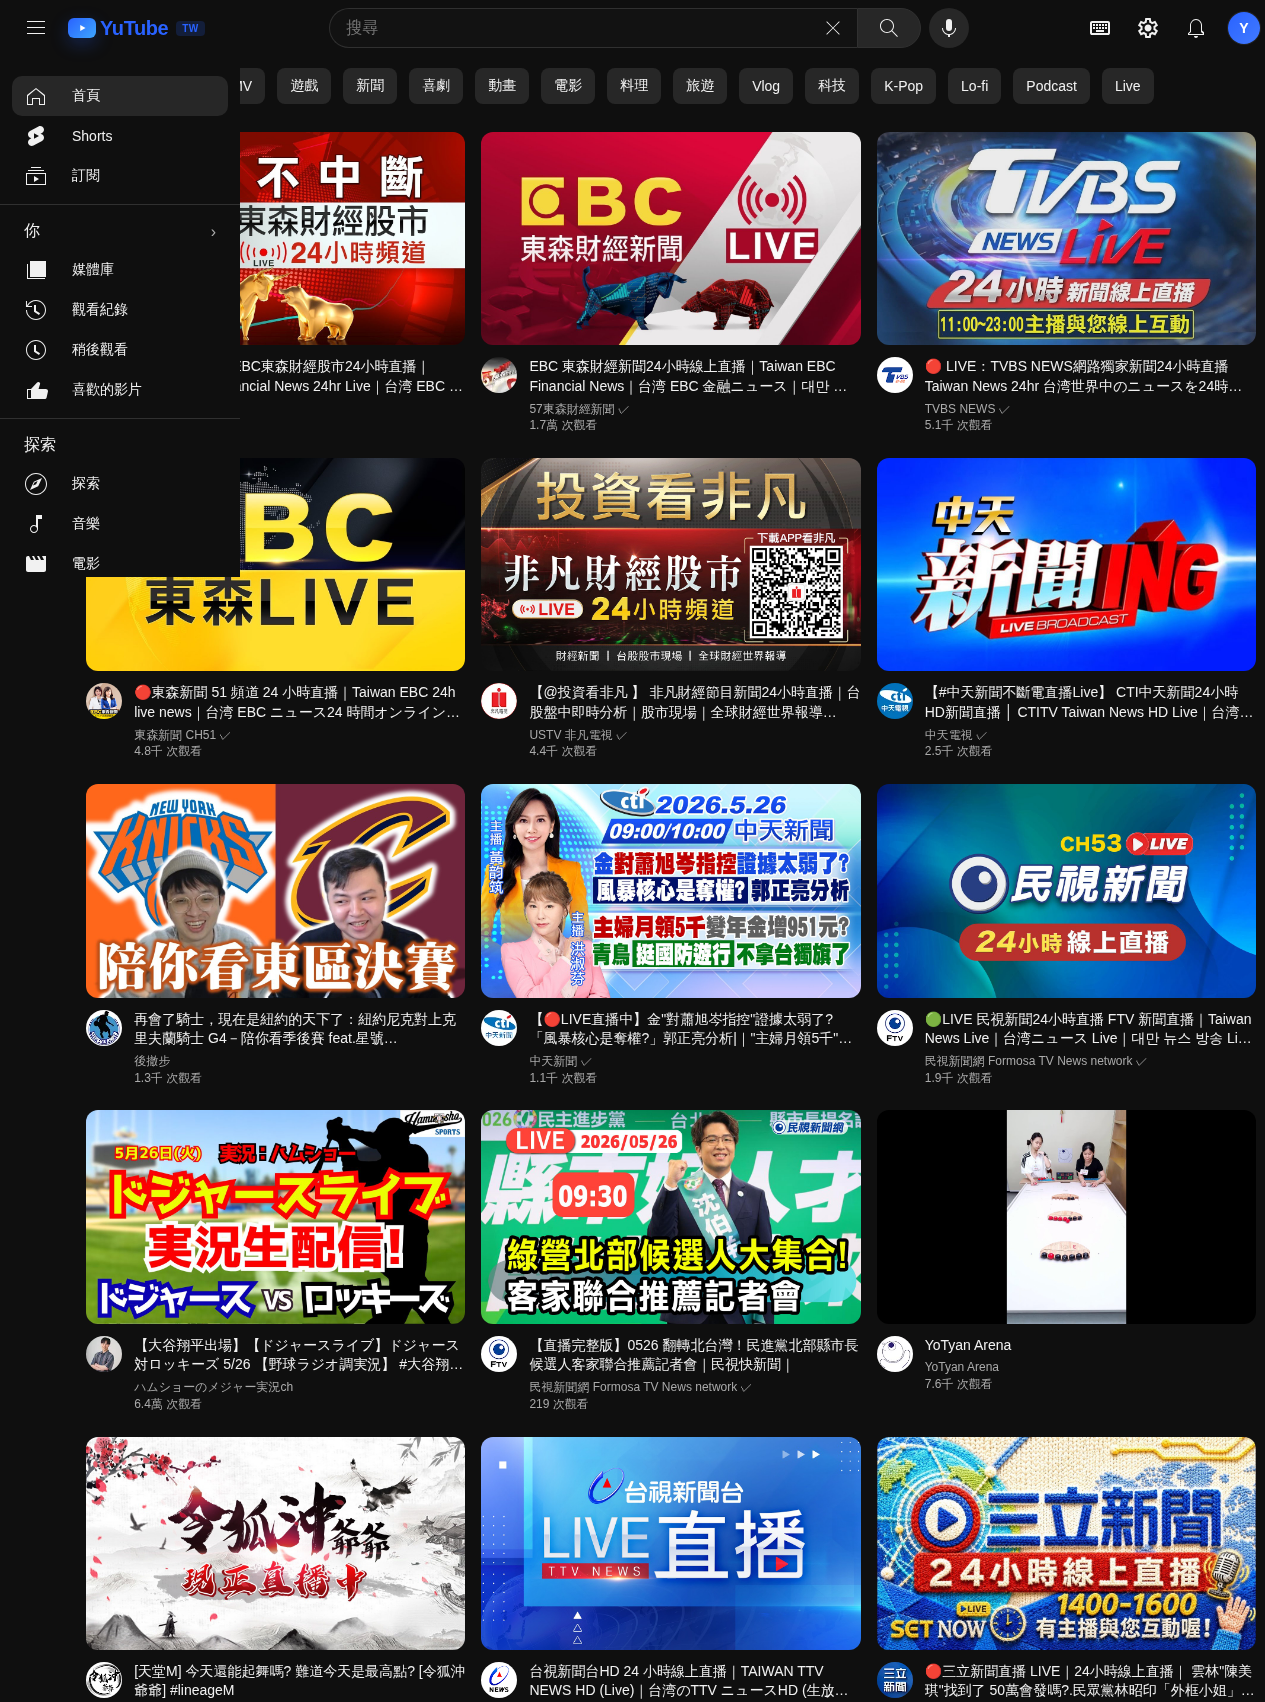
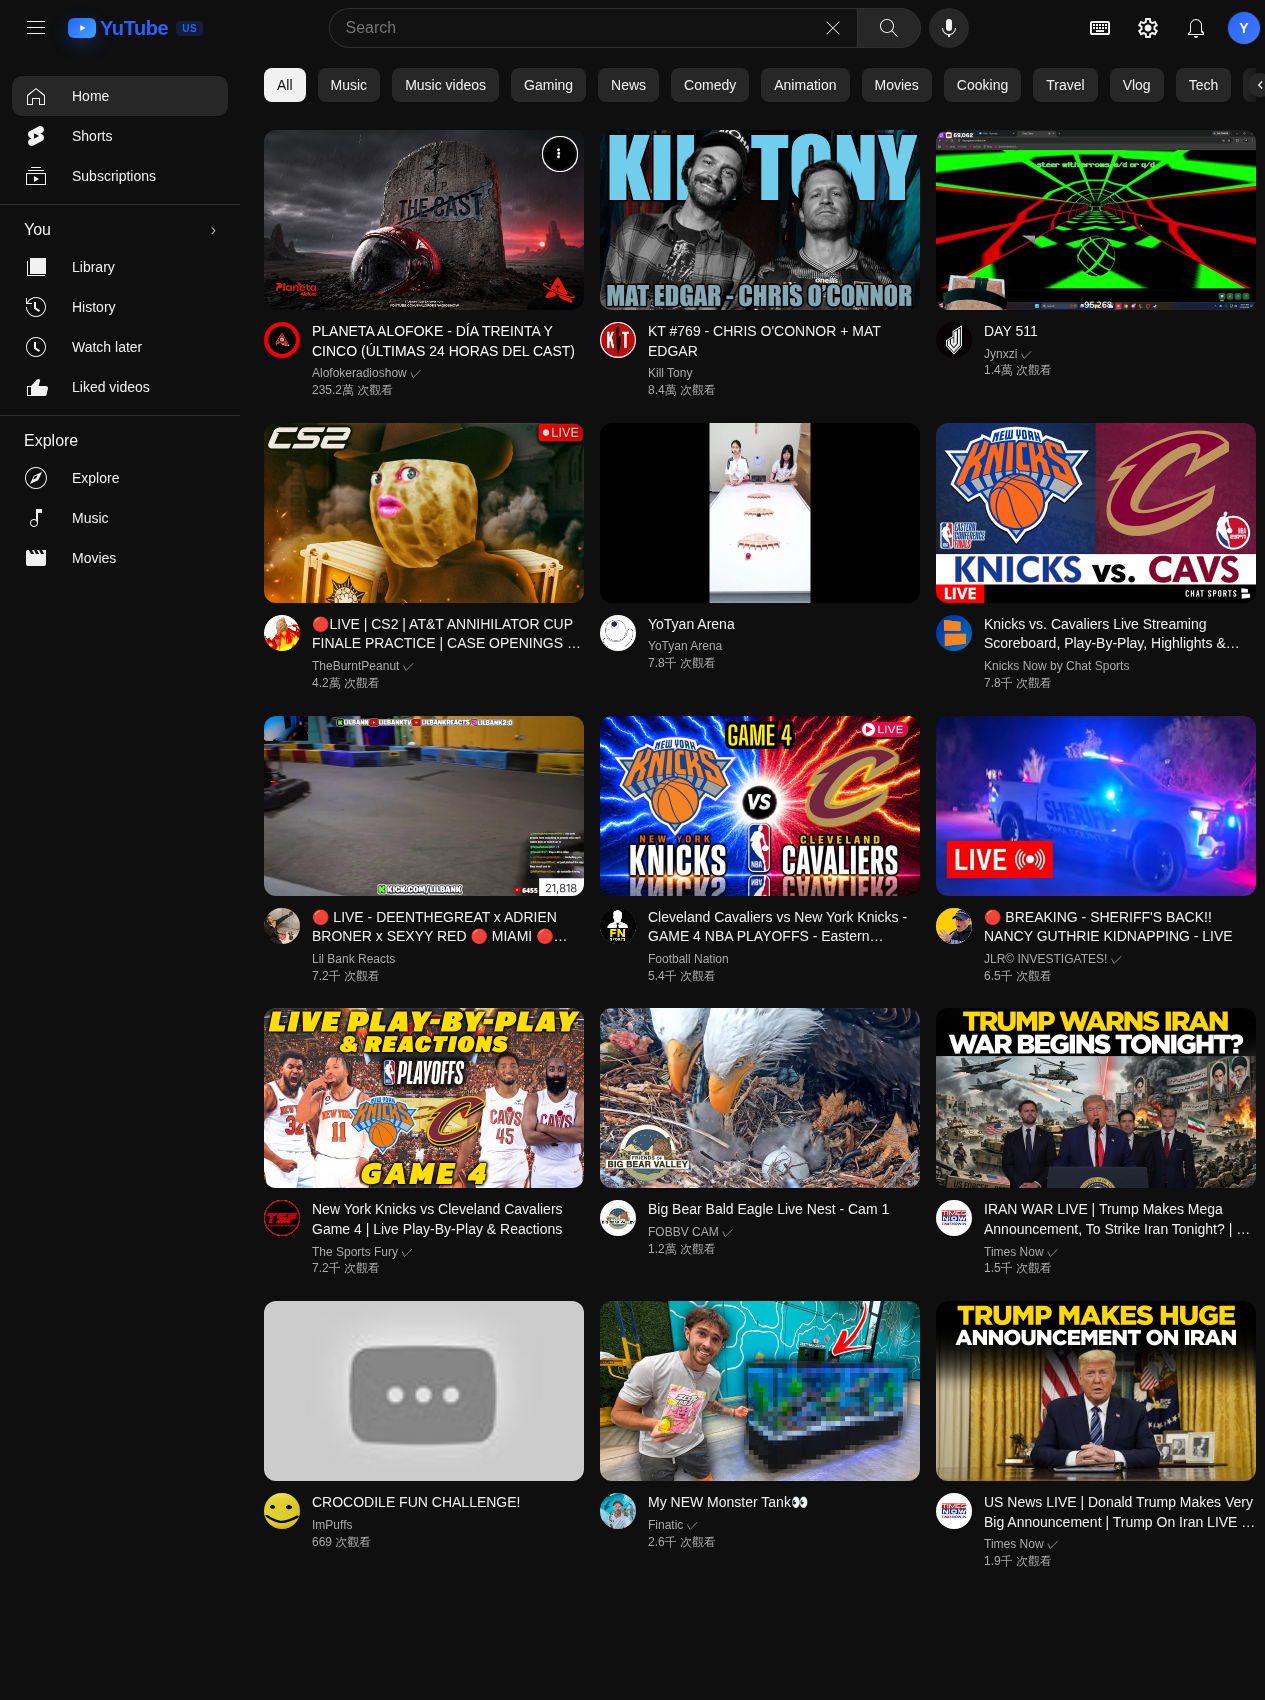
feat: simplify thumbnail action to single 3-dot menu with 'Not interested' only
- Replaced 2-button card-actions (watch-later + share) with single 3-dot ellipsis button
- Context menu now only shows 'Not interested' (hide) option
- Removed old .card-more CSS rules, unified into .card-actions
- Replaced placeholder README screenshots with real US region captures
- Updated README preview text in both EN and zh-TW

diff --git a/public/app.js b/public/app.js
@@ -692,17 +692,11 @@ function videoCard(v) {
         ${durBadge}
         ${progress > 0 ? `<div class="progress-bar" style="width:${Math.min(100, progress)}%"></div>` : ''}
         <div class="card-actions">
-          <button class="card-action" data-act="watch-later" title="${inWatchLater ? '從稍後觀看移除' : '稍後觀看'}">
-            <svg viewBox="0 0 24 24"><path d="${inWatchLater ? 'M19 13H5v-2h14v2z' : 'M11 17h2v-1h1c.55 0 1-.45 1-1v-3c0-.55-.45-1-1-1h-3v-1h4V8h-2V7h-2v1h-1c-.55 0-1 .45-1 1v3c0 .55.45 1 1 1h3v1H9v2h2v1zm9-9h-1V3h-2v5H7V3H5v5H4c-1.1 0-2 .9-2 2v10c0 1.1.9 2 2 2h16c1.1 0 2-.9 2-2V10c0-1.1-.9-2-2-2zm0 12H4V10h16v10z'}"/></svg>
-          </button>
-          <button class="card-action" data-act="share" title="分享">
-            <svg viewBox="0 0 24 24"><path d="M15 5.63L20.66 12 15 18.37V14h-1c-3.96 0-7.14 1-9.75 3.09 1.84-4.07 5.11-6.4 9.7-6.91l1.05-.12V5.63M14 3v7C6.45 10.74 3 16 2 21c2.5-3.5 6-5.1 12-5.1V21l9-9-9-9z"/></svg>
+          <button class="card-action card-action-more" data-act="more" data-channel-id="${channelId || ''}" title="更多" aria-label="更多">
+            <svg viewBox="0 0 24 24" aria-hidden="true"><path d="M12 7a1.75 1.75 0 1 0 0 .001A1.75 1.75 0 0 0 12 7zm0 3.25A1.75 1.75 0 1 0 12 12a1.75 1.75 0 0 0 0-1.75zm0 5a1.75 1.75 0 1 0 0 .001A1.75 1.75 0 0 0 12 15.25z"/></svg>
           </button>
         </div>
       </div>
-      <button class="card-more" data-act="more" data-channel-id="${channelId || ''}" title="更多">
-        <svg viewBox="0 0 24 24"><path d="M12 16.5c.83 0 1.5.67 1.5 1.5s-.67 1.5-1.5 1.5-1.5-.67-1.5-1.5.67-1.5 1.5-1.5zm0-2.5c-.83 0-1.5-.67-1.5-1.5S11.17 11 12 11s1.5.67 1.5 1.5S12.83 14 12 14zm0-3c-.83 0-1.5-.67-1.5-1.5S11.17 8 12 8s1.5.67 1.5 1.5S12.83 11 12 11z"/></svg>
-      </button>
       <div class="meta">
         <div class="avatar" data-act="channel" data-channel-url="${v.uploaderUrl || ''}">${v.uploaderAvatar ? `<img src="${proxyImg(v.uploaderAvatar)}" alt="">` : ''}</div>
         <div class="info">
@@ -734,6 +728,10 @@ function bindCards(root = page) {
           act.title = added ? '從稍後觀看移除' : '稍後觀看';
         } else if (act.dataset.act === 'share') {
           openShare(card.id, card.title);
+        } else if (act.dataset.act === 'hide') {
+          Store.hidden.add(card.id);
+          c.style.display = 'none';
+          toast('已標記為不感興趣');
         } else if (act.dataset.act === 'channel') {
           const chId = act.dataset.channelId || channelIdFromUrl(act.dataset.channelUrl);
           if (chId) navigate(`/channel/${chId}`);
@@ -2039,7 +2037,7 @@ document.addEventListener('click', (e) => {
   if (!menu || menu.hidden) return;
   const item = e.target.closest('.ctx-item');
   if (!item) {
-    if (!e.target.closest('.card-more')) closeCtxMenu();
+    if (!e.target.closest('.card-action-more')) closeCtxMenu();
     return;
   }
   const id = menu.dataset.id;

diff --git a/public/style.css b/public/style.css
@@ -398,26 +398,31 @@ a.link { color: var(--link); }
 
 .card { cursor: pointer; position: relative; }
 .card:hover .title { color: white; }
+/* 卡片右上單一動作按鈕 */
 .card .card-actions {
   position: absolute;
-  top: 8px; right: 8px;
-  display: none;
+  top: 8px;
+  right: 8px;
+  display: flex;
   gap: 4px;
-  z-index: 2;
+  z-index: 3;
+  opacity: 0;
+  transition: opacity .15s;
 }
-.card:hover .card-actions { display: flex; }
+.card:hover .card-actions { opacity: 1; }
 .card-action {
   width: 32px; height: 32px;
-  background: rgba(0,0,0,0.7);
+  background: rgba(0,0,0,0.72);
   border: none;
-  border-radius: 50%;
+  border-radius: 999px;
   color: white;
   cursor: pointer;
   display: inline-flex;
   align-items: center; justify-content: center;
 }
 .card-action:hover { background: rgba(0,0,0,0.9); }
-.card-action svg { width: 16px; height: 16px; fill: currentColor; }
+.card-action svg { width: 18px; height: 18px; fill: currentColor; }
+.card-action-more svg { width: 20px; height: 20px; }
 
 .thumb {
   position: relative;
@@ -1177,26 +1182,6 @@ body.light .my-avatar { background: var(--accent); color: #fff; }
 .chip-scroll.right { right: 0; transform: translateY(-50%) scaleX(-1); }
 .chip-scroll[hidden] { display: none; }
 
-/* 卡片三點選單 */
-.card { position: relative; }
-.card-more {
-  position: absolute;
-  top: 4px; right: 4px;
-  background: rgba(0,0,0,0.6);
-  border: 0;
-  border-radius: 50%;
-  width: 32px; height: 32px;
-  cursor: pointer;
-  opacity: 0;
-  transition: opacity .15s;
-  display: flex;
-  align-items: center;
-  justify-content: center;
-  z-index: 3;
-}
-.card:hover .card-more { opacity: 1; }
-.card-more svg { width: 18px; height: 18px; fill: #fff; }
-
 /* 觀看進度紅條 */
 .progress-bar {
   position: absolute;
@@ -1206,10 +1191,6 @@ body.light .my-avatar { background: var(--accent); color: #fff; }
   z-index: 2;
   transition: width .3s;
 }
-
-/* 卡片右上動作（覆寫舊樣式：只在 hover 顯示） */
-.card-actions { opacity: 0; transition: opacity .15s; }
-.card:hover .card-actions { opacity: 1; }
 
 /* 上下文選單 */
 .ctx-menu {

diff --git a/public/index.html b/public/index.html
@@ -212,25 +212,9 @@
 
 <!-- ============ Card context menu ============ -->
 <div class="ctx-menu" id="ctxMenu" hidden>
-  <button class="ctx-item" data-ctx="watch-later">
-    <svg viewBox="0 0 24 24"><path d="M14.97 16.95L10 13.87V7h2v5.76l4.03 2.49-1.06 1.7zM22 12c0 5.51-4.49 10-10 10S2 17.51 2 12 6.49 2 12 2s10 4.49 10 10z"/></svg>
-    <span data-i18n="ctx.watch_later">稍後觀看</span>
-  </button>
-  <button class="ctx-item" data-ctx="copy">
-    <svg viewBox="0 0 24 24"><path d="M14 12h-4v3h4v-3zm0-4h-4v3h4V8zm-1.95-7L4 9.05V20a2 2 0 0 0 2 2h12a2 2 0 0 0 2-2V3h-7.95z"/></svg>
-    <span data-i18n="ctx.copy">複製連結</span>
-  </button>
-  <button class="ctx-item" data-ctx="share">
-    <svg viewBox="0 0 24 24"><path d="M15 5.63L20.66 12 15 18.37V14h-1c-3.96 0-7.14 1-9.75 3.09 1.84-4.07 5.11-6.4 9.7-6.91l1.05-.12V5.63"/></svg>
-    <span data-i18n="ctx.share">分享</span>
-  </button>
   <button class="ctx-item" data-ctx="hide">
-    <svg viewBox="0 0 24 24"><path d="M19 13H5v-2h14v2z"/></svg>
+    <svg viewBox="0 0 24 24"><path d="M12 2L1 21h22L12 2zm0 5.2 7.1 12.8H4.9L12 7.2zm-1 3.3v4.8h2v-4.8h-2zm0 6.2v2h2v-2h-2z"/></svg>
     <span data-i18n="ctx.hide">不感興趣</span>
-  </button>
-  <button class="ctx-item" data-ctx="block-channel">
-    <svg viewBox="0 0 24 24"><path d="M12 2C6.48 2 2 6.48 2 12s4.48 10 10 10 10-4.48 10-10S17.52 2 12 2zm0 18c-4.41 0-8-3.59-8-8 0-1.85.63-3.55 1.69-4.9L16.9 18.31C15.55 19.37 13.85 20 12 20zm6.31-3.1L7.1 5.69C8.45 4.63 10.15 4 12 4c4.41 0 8 3.59 8 8 0 1.85-.63 3.55-1.69 4.9z"/></svg>
-    <span data-i18n="ctx.block">封鎖頻道</span>
   </button>
 </div>
 

diff --git a/README.md b/README.md
@@ -8,7 +8,7 @@ YuTube is a lightweight video frontend that provides a familiar YouTube-style br
 
 ## Preview
 
-> Placeholder preview images are included and can be replaced with real screenshots later.
+> Real screenshots captured from the US region are shown below.
 
 ![YuTube Home Preview](./assets/preview-home.png)
 ![YuTube Search Preview](./assets/preview-search.png)
